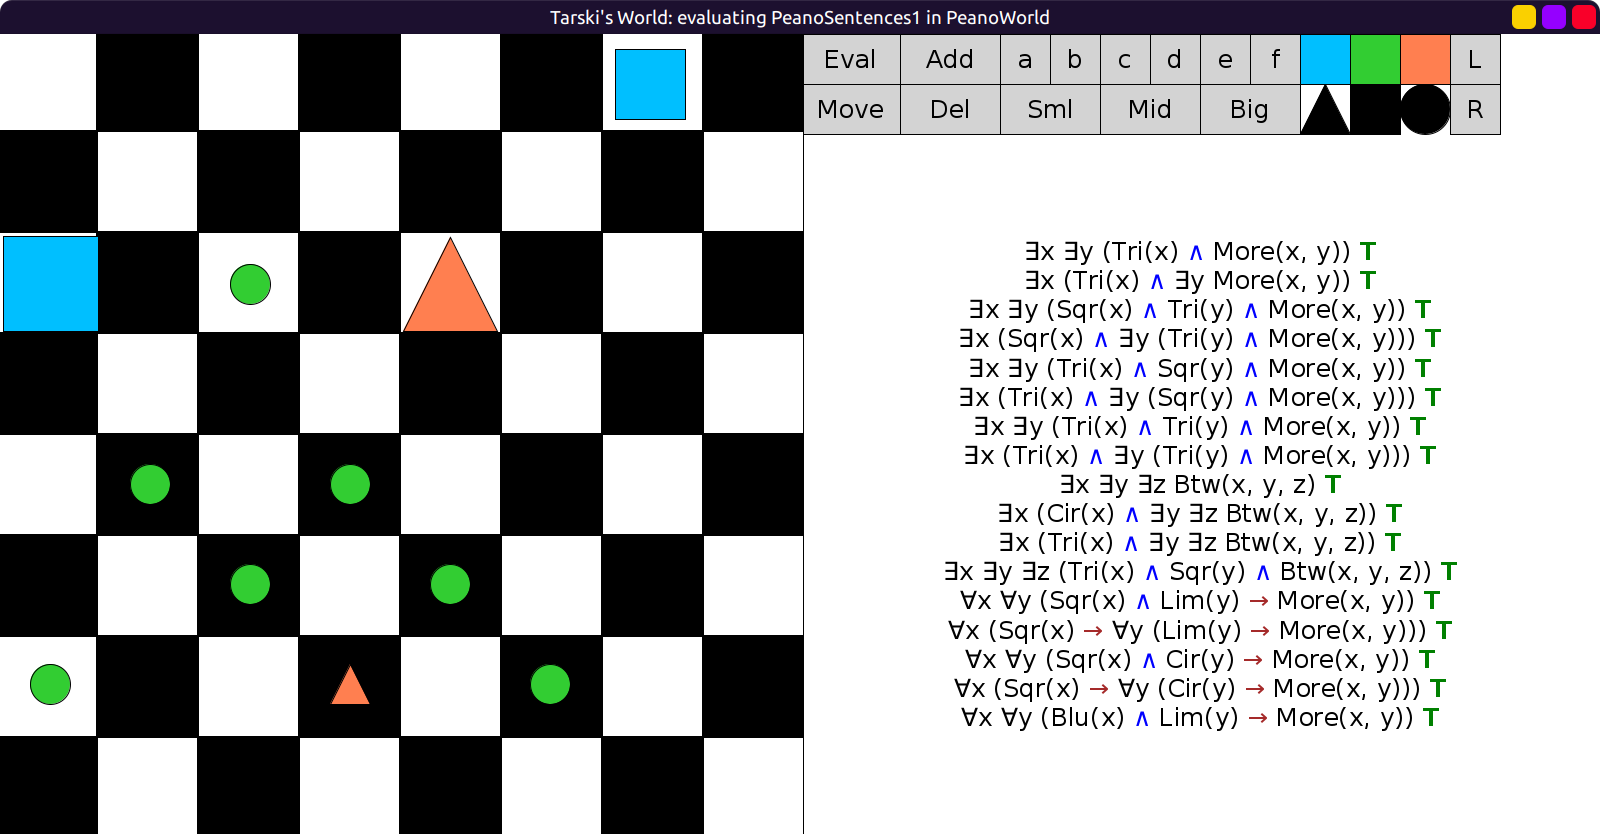
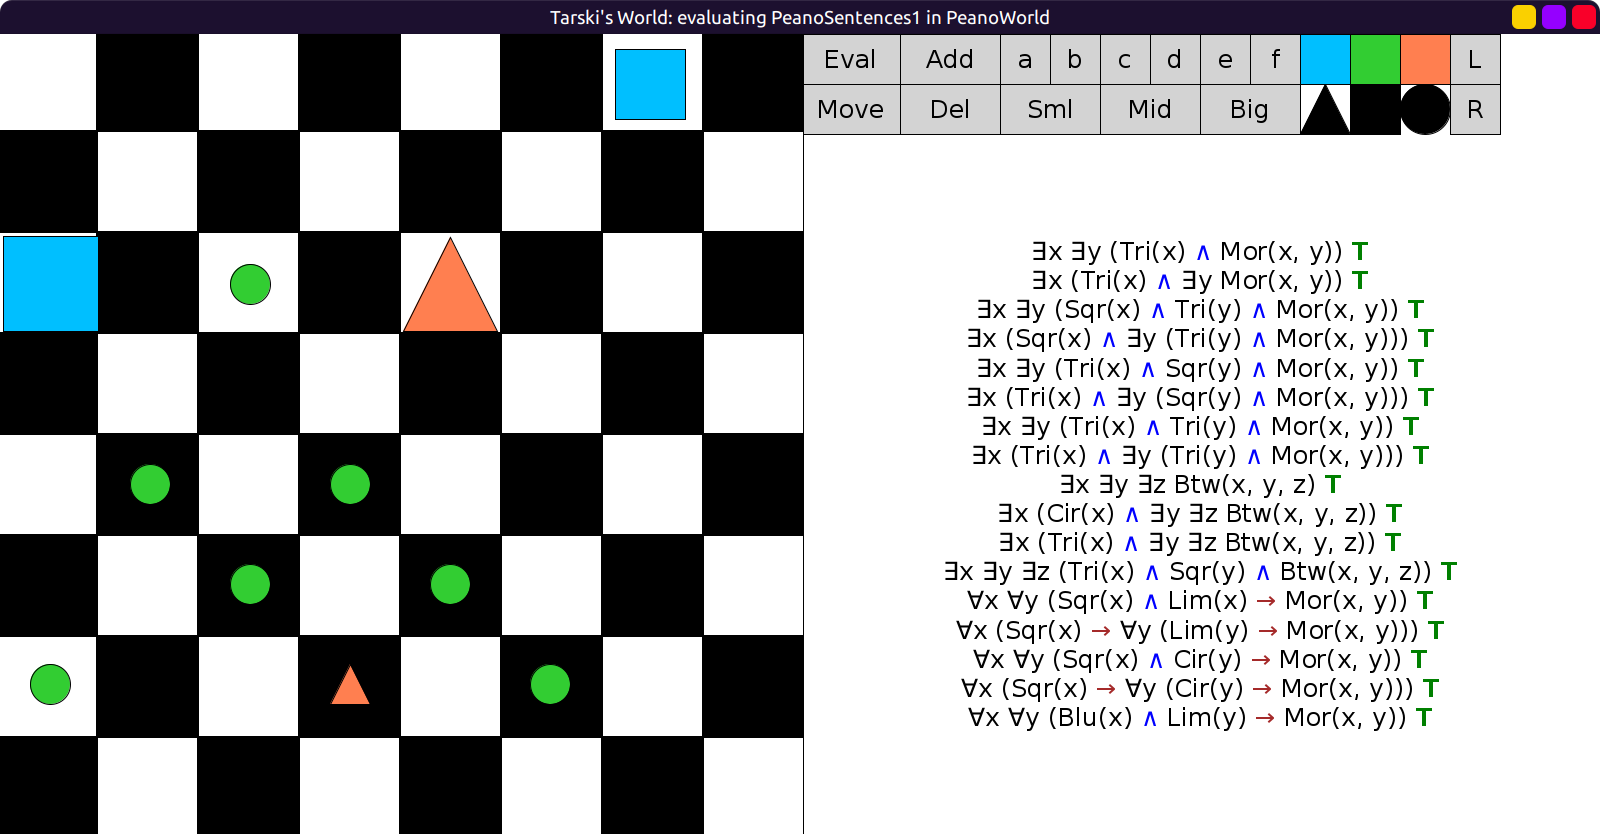
rework ex q14 q15

Changed region(s): [[0.5938, 0.2806, 0.9062, 0.5612], [0.5938, 0.6859, 0.9062, 0.8729]]

diff --git a/examples/quantifier-logic/15/README.md b/examples/quantifier-logic/15/README.md
@@ -1,14 +1,14 @@
 # 15 - Evaluating multiple quantifier sentences
 
 - Open up `PeanoWorld` and `PeanoSentences1` by running `runQ15a`.
-- The sentence file contains 17 assertions that Alex made about this world.
+- The list contains 17 assertions that Alex made about this world.
 - Evaluate Alex's claims.
 - If you have trouble with any, play the game (several times if necessary)
   until you see where you are going wrong.
 - Then change each of Alex's false claims into a true claim.
 - If you can make the sentence true by adding a clause of the form
   - `¬Eq(x, y)`, or
-  - `¬Loc(x,y)`, do so.
+  - `x != y`, do so.
 - Otherwise, see if you can turn the false claim into an interesting truth:
   don't just add a negation sign to the front of the sentence.
 - Save your corrected list of sentences.

diff --git a/examples/quantifier-logic/15/solution.md b/examples/quantifier-logic/15/solution.md
@@ -31,7 +31,8 @@ In `PeanoSentences2`, the false sentences are:
 
 - ∀x ((Sqr(x) ∧ Mid(x)) → ∀y Lft(y, x)) (no. 1)
   - can be made true with:
-  - ∀x ((Sqr(x) ∧ Mid(x)) → ∀y (Lft(y, x) → ¬Eq(x, y)))
+  - ∀x ((Sqr(x) ∧ Mid(x)) → ∀y (x != y → Lft(y, x)))
+  - ¬Eq(x, y) also works.
 - ∀x ((Tri(x) ∧ Sml(x)) → ∀y Bel(x, y)) (no. 3)
   - can be made true with:
   - ∀x ((Tri(x) ∧ Sml(x)) → ∀y (¬Row(x, y) → Bel(x, y)))
@@ -51,6 +52,7 @@ In `PeanoSentences2`, the false sentences are:
 - ∀x ∀y ((Tri(x) ∧ Tri(y)) → ¬Siz(x, y)) (no. 15)
   - can be made true with:
   - ∀x ∀y ((Tri(x) ∧ Tri(y) ∧ ¬Eq(x, y)) → ¬Siz(x, y))
+  - x != y also works instead of ¬Eq(x, y)
 
 Initial evaluation (1, 3, 4, 9, 11, 13, 15 false):
 

diff --git a/examples/quantifier-logic/14/README.md b/examples/quantifier-logic/14/README.md
@@ -53,7 +53,7 @@ Italian mathematician (1858 - 1932)
 
 Charles Lutwidge Dodgson, English author and mathematician (1832 - 1898)
 
-Better known as Lewis Carroll, his pen name.
+Better known by the pen name Lewis Carroll.
 
 Author of Alice in Wonderland, which contains many mathematical logic puzzles.
 
